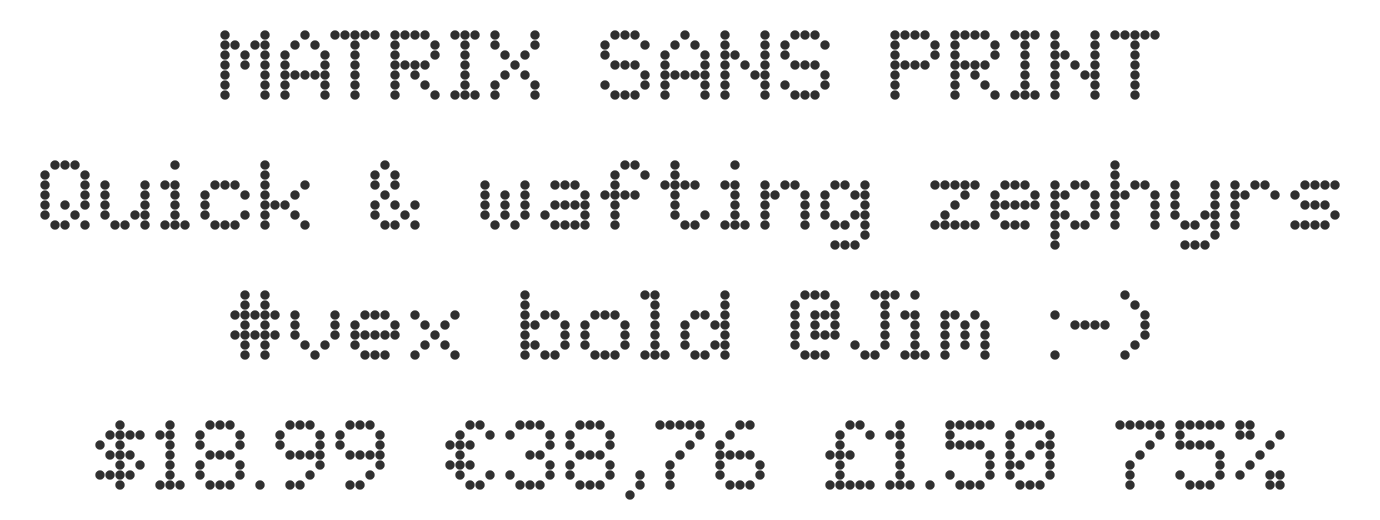
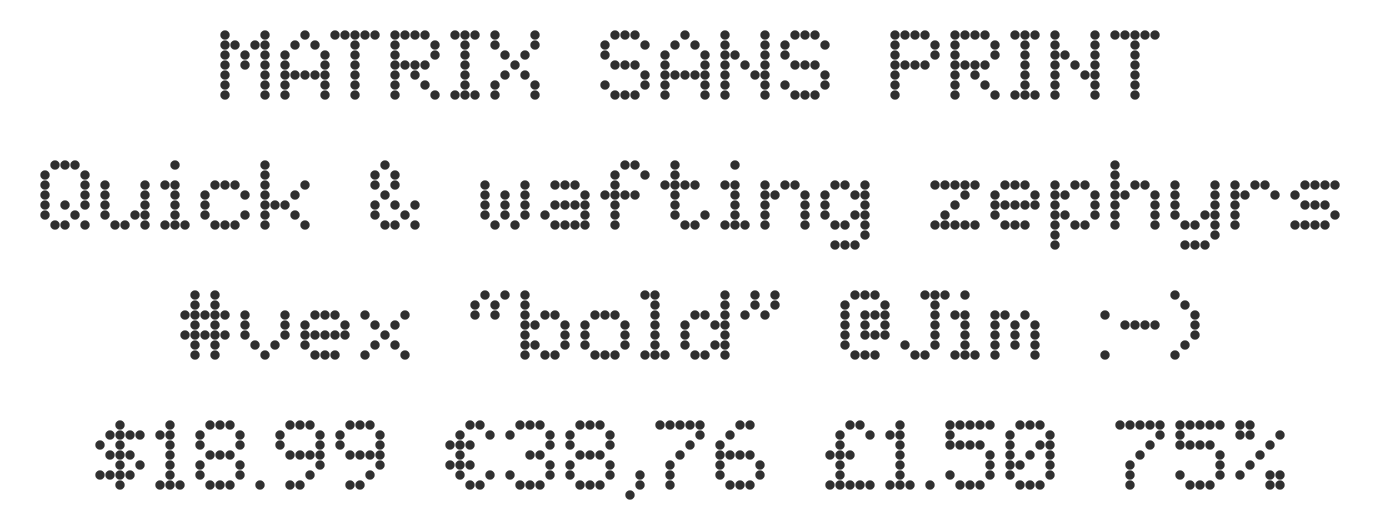
Add quotation marks to sample images

Changed region(s): [[0.5297, 0.5538, 0.8725, 0.7077], [0.1246, 0.5538, 0.3739, 0.7077]]

diff --git a/documentation/image3.py b/documentation/image3.py
@@ -148,7 +148,7 @@ if __name__ == "__main__":
 	FONT_PATH = "fonts/otf/MatrixSans-Regular.otf"
 	make_image(["MATRIX SANS REGULAR","The quick brown fox","jumps over the lazy dog.","§27 ¶14; { 35°29′10″ }"], [0, 0, 0], [1, 1, 1])
 	FONT_PATH = "fonts/otf/MatrixSansPrint-Regular.otf"
-	make_image(["MATRIX SANS PRINT","Quick & wafting zephyrs","#vex bold @Jim :-)","$18.99 €38,76 £1.50 75%"], [48/255, 48/255, 48/255], [1, 1, 1])
+	make_image(["MATRIX SANS PRINT","Quick & wafting zephyrs","#vex “bold” @Jim :-)","$18.99 €38,76 £1.50 75%"], [48/255, 48/255, 48/255], [1, 1, 1])
 	FONT_PATH = "fonts/otf/MatrixSansRaster-Regular.otf"
 	make_image(["MATRIX SANS RASTER","Pack my box with five","dozen liquor jugs*","150 IF X>32 THEN N=0"], [0, 1, 0.5], [0, 0, 0])
 	FONT_PATH = "fonts/otf/MatrixSansScreen-Regular.otf"
